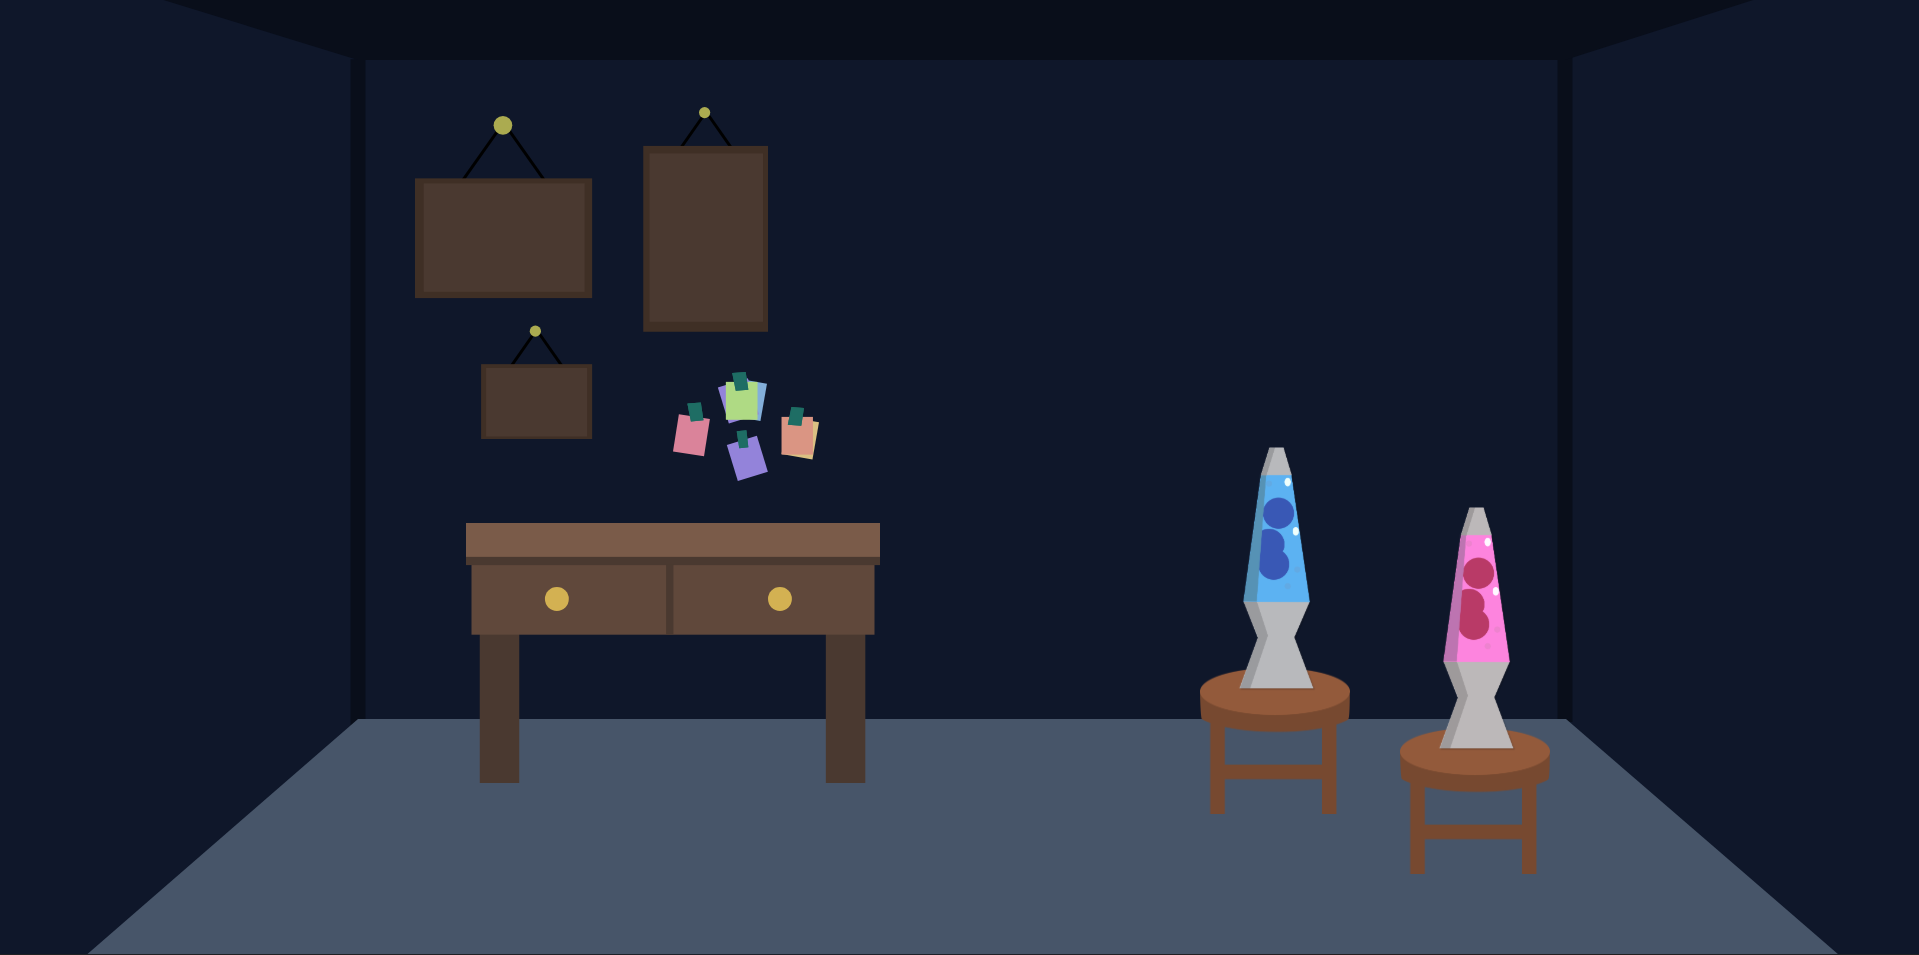
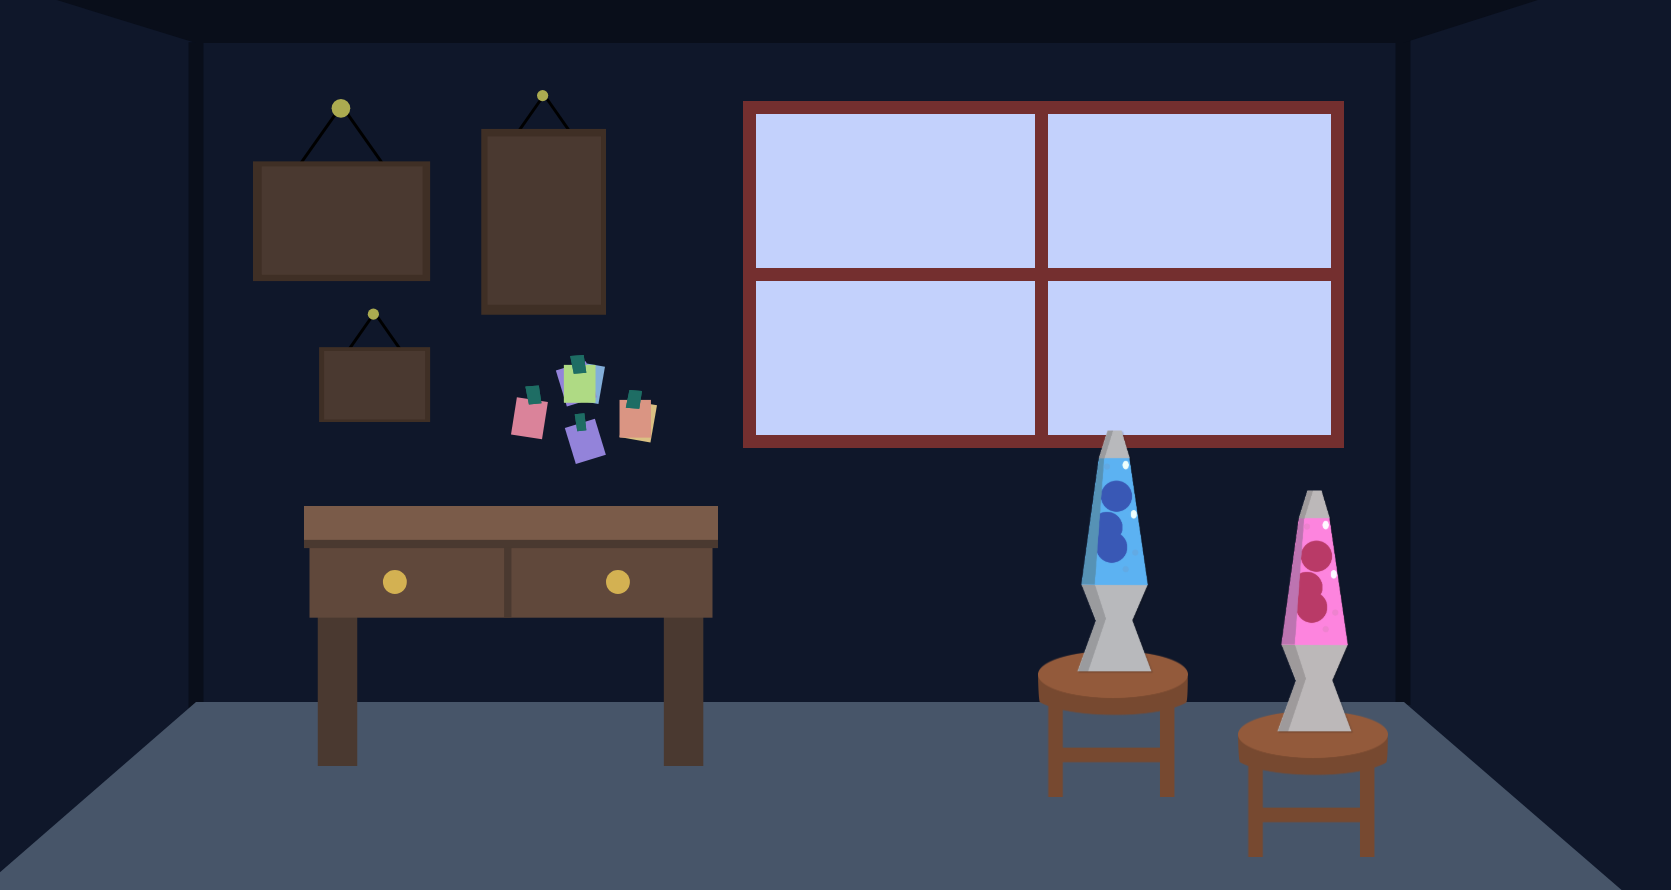
update picture

diff --git a/games.html b/games.html
@@ -49,7 +49,7 @@
 
     <header>
         <h1>Katie Dinh</h1>
-        <p>Hi! I'm Katie Dinh, a third year engineering student majoring in Computer Science at UCLA.
+        <p>Hi! I'm Katie Dinh, a senior engineering student majoring in Computer Science at UCLA.
         I'm very excited to begin applying my knowledge to real-world instances, and always looking for new
         projects to sharpen my skills. My interests are in software engineering and video game design.
         </p>
